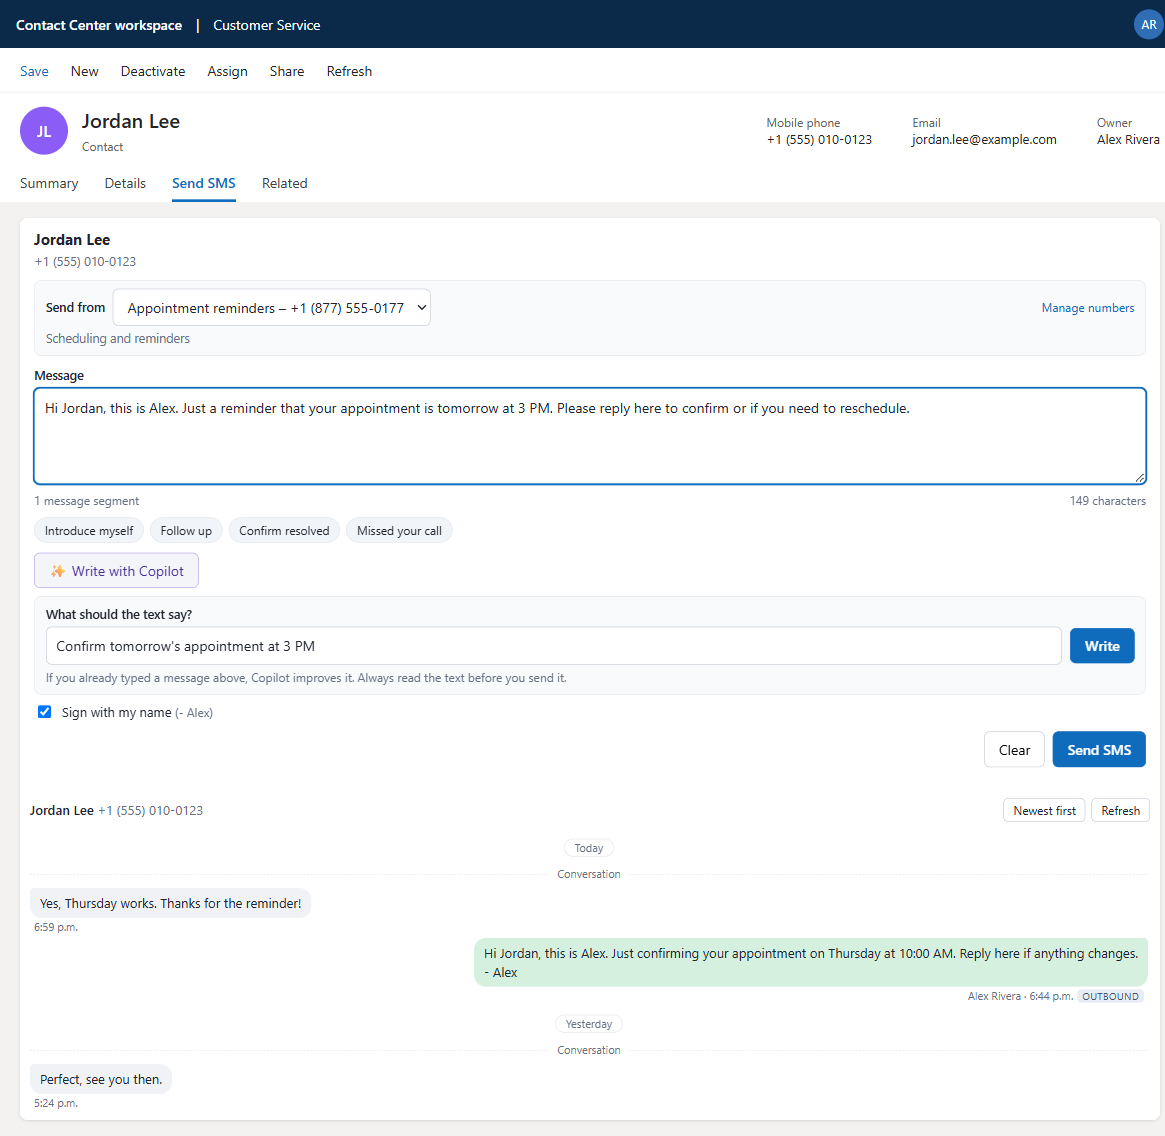
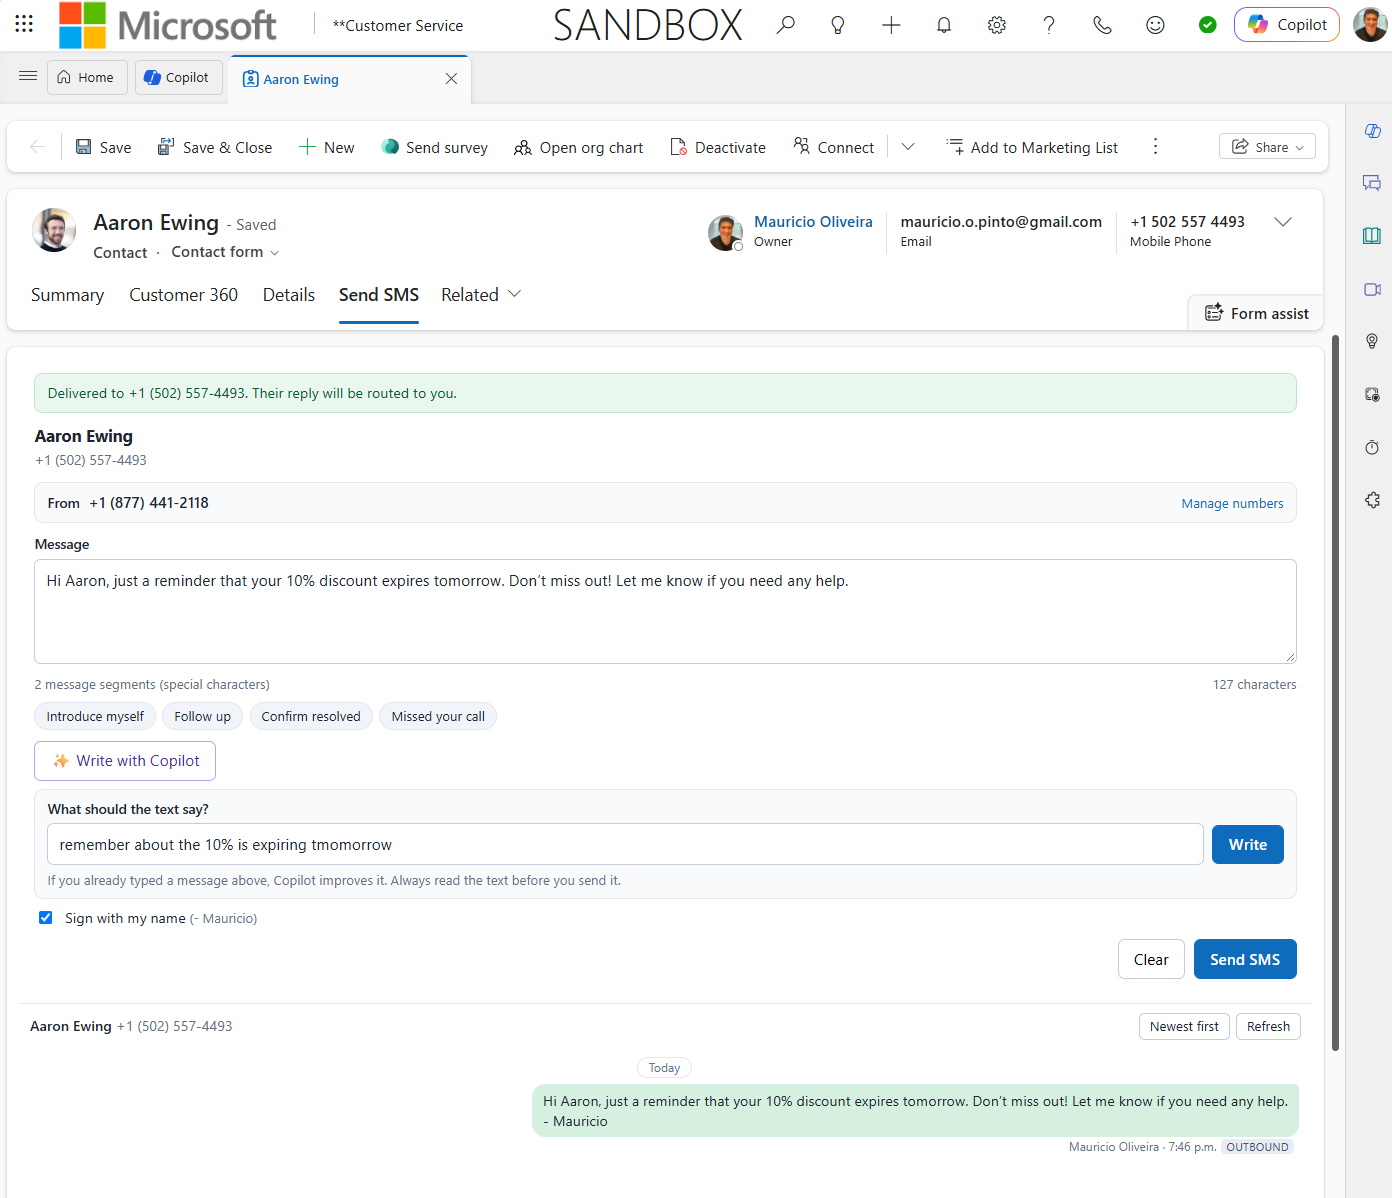
README: use the real Customer Service workspace screenshot as the main image

diff --git a/README.md b/README.md
@@ -4,9 +4,9 @@
 
 Out of the box, a human agent in Dynamics 365 Contact Center (or Omnichannel for Customer Service) **cannot start an SMS conversation**. Microsoft's documentation says so: representatives can't proactively reach out to customers by starting an SMS conversation in the app. This free, open-source add-on fixes that.
 
-![Send SMS tab on a contact: number picker, message box, Write with Copilot and the full text history](docs/images/hero.png)
+![Send SMS tab on a contact in the Customer Service workspace: Write with Copilot, the message box and the text history](docs/images/hero.png)
 
-*The screenshots use made-up data.*
+*The first screenshot is from a test environment. The others use made-up data.*
 
 | What the agent gets | How |
 |---|---|
